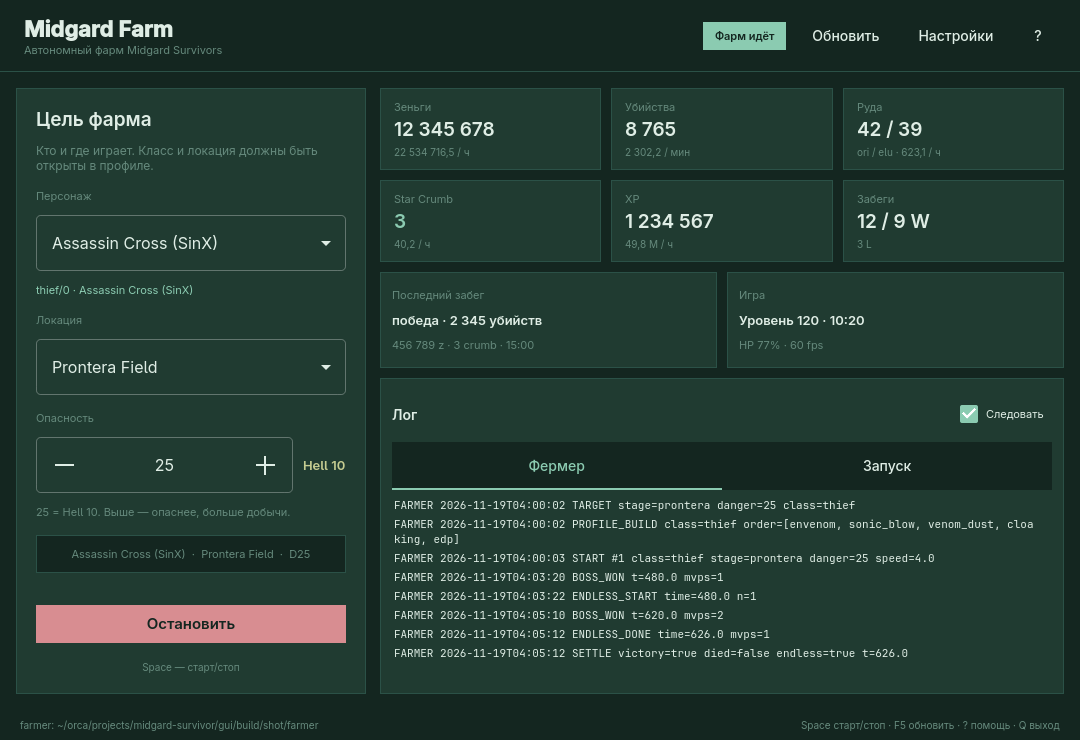
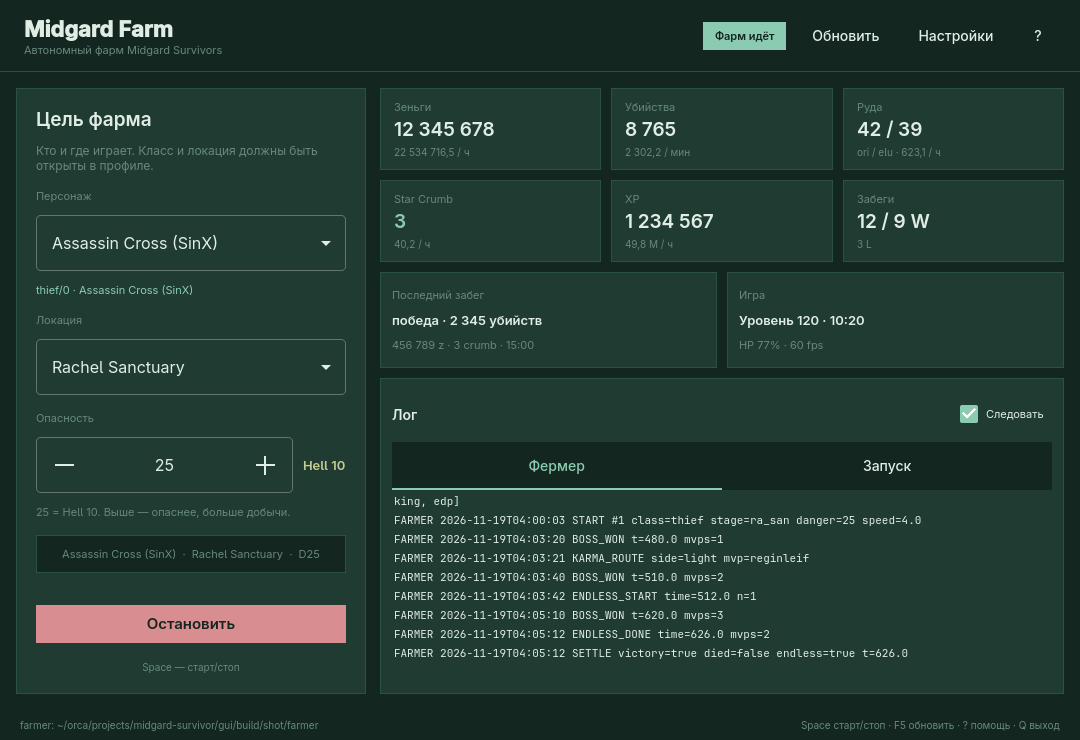
feat(farmer): finish karma route and terminal contract
- Add the post-MVP karma route and reset its per-run flag.
- Default auto_keep off and document the Kafra behavior.
- Refresh presets, launcher defaults, GUI code and screenshot.
- Complete the terminal contract with an explicit terminal flag and a content-sensitive flush marker.

Changed region(s): [[0.3667, 0.6527, 0.9167, 0.8081], [0.0611, 0.7459, 0.275, 0.777], [0.0611, 0.4662, 0.1528, 0.5284]]

diff --git a/farmer/tools/farm.py b/farmer/tools/farm.py
@@ -3,8 +3,8 @@
 
 Examples:
   ./tools/farm.py --list
-  ./tools/farm.py --char sinx --stage prontera --danger 25
-  ./tools/farm.py --char sniper --stage payon --danger 20
+  ./tools/farm.py --char sinx --stage ra_san --danger 25
+  ./tools/farm.py --char sniper --stage ra_san --danger 25
   ./tools/farm.py --class archer --job-path 0 --stage orc --danger 15
 
 The config is generated from presets/synx-hell.json; the preset is not edited.
@@ -46,7 +46,7 @@ def main():
     parser.add_argument("--char", help="named character from targets.json")
     parser.add_argument("--class", dest="class_", help="base class id, e.g. thief")
     parser.add_argument("--job-path", type=int, help="job path index (default 0)")
-    parser.add_argument("--stage", default="prontera", help="stage id from --list")
+    parser.add_argument("--stage", default="ra_san", help="stage id from --list")
     parser.add_argument("--danger", type=int, default=25, help="fixed danger (default 25)")
     parser.add_argument("--speed", type=float, help="override Engine.time_scale")
     parser.add_argument("--run-minutes", type=float, help="override run timeout in game minutes")

diff --git a/gui/tests/midgardfarm_tests.cpp b/gui/tests/midgardfarm_tests.cpp
@@ -25,7 +25,8 @@ private slots:
             },
             "stages": {
                 "payon":    "Payon Forest",
-                "prontera": "Prontera Field"
+                "prontera": "Prontera Field",
+                "ra_san":   "Rachel Sanctuary"
             }
         })";
         const bool wrote = write(farmer + "/targets.json", targets);
@@ -34,7 +35,7 @@ private slots:
         Backend backend(farmer, dir.path() + "/data");
         QCOMPARE(backend.characters().size(), 3);
         QCOMPARE(backend.characters().first().toMap().value("id").toString(), QString("sinx"));
-        QCOMPARE(backend.stages().first().toMap().value("id").toString(), QString("prontera"));
+        QCOMPARE(backend.stages().first().toMap().value("id").toString(), QString("ra_san"));
 
         const QStringList expected{"--char", "sniper", "--stage", "payon", "--danger", "25"};
         QCOMPARE(backend.farmArguments("sniper", "payon", 25), expected);

diff --git a/gui/src/backend.cpp b/gui/src/backend.cpp
@@ -149,10 +149,13 @@ void Backend::loadTargets()
 
     const QJsonObject stages = root.value("stages").toObject();
     QStringList stageOrder;
-    if (stages.contains(QStringLiteral("prontera")))
-        stageOrder.append(QStringLiteral("prontera"));
+    // The measured best run for the main SinX profile is Rachel Sanctuary
+    // (ra_san|25 in the farmer's arms); keep it first so Start uses it.
+    const QString preferred = QStringLiteral("ra_san");
+    if (stages.contains(preferred))
+        stageOrder.append(preferred);
     for (auto it = stages.begin(); it != stages.end(); ++it)
-        if (it.key() != QStringLiteral("prontera"))
+        if (it.key() != preferred)
             stageOrder.append(it.key());
     for (const QString &id : std::as_const(stageOrder)) {
         QVariantMap item;

diff --git a/farmer/README.md b/farmer/README.md
@@ -79,8 +79,8 @@ cd ../gui
 | `presets/steady.json` | авто-класс, авто-стадия/danger, апгрейды, карты, loadout, питомец |
 | `presets/zeny.json` | цель — зеньги; авто-подбор danger по измеренной доходности |
 | `presets/crumbs.json` | цель — Star Crumb: danger 25+, endless до 6 минут / 8 MVP |
-| `presets/synx-hell.json` | соло SinX, Prontera danger 25 (hell 10), speed 4, AFK-цикл |
-| `presets/sniper-hell.json` | соло Sniper (archer/0), те же настройки; включится после прокачки archer |
+| `presets/synx-hell.json` | соло SinX, Rachel Sanctuary danger 25 (hell 10), speed 4, AFK-цикл |
+| `presets/sniper-hell.json` | соло Sniper (archer/0), Rachel Sanctuary, те же настройки; включится после прокачки archer |
 | `presets/progress.json` | продавливание максимального danger, rebirth |
 | `presets/night.json` | ночной сбалансированный фарм, 8 часов, короткий endless |
 
@@ -200,8 +200,12 @@ AFK-цикл: забег идёт до смерти/победы (на SinX D25 
 
 - Endless Tower, Hel Tower и Emperium Festival **не автоматизируются** в v1:
   это отдельные режимы со своим UI и сохранёнными билдами.
-- Karma-маршруты через портал не запускаются (autopilot подавляет Morroc;
-  маршрут требует выхода из арены).
+- Karma-маршрут после MVP запускается автоматически: Valhalla → Valkyrie
+  Reginleif (+1 жизнь, +15% XP), Niflheim → Randgris. Если сторона karma не
+  выбрана (нет алтаря Baldur/Hel), портала нет и фермер идёт в endless.
+- **Кафра:** `auto_keep: false` по умолчанию — дроп забегов не сохраняется в
+  кафру (продаётся/остаётся в награде). Включать только вручную и следить за
+  местом.
 - Гача, town-refine с риском слома, grades/sockets и ролл traits не трогаются.
 - На danger 26–30 кумулятивные механики Hell могут убивать: автоподбор отступит
   по метрикам, но гарантий выживания нет.
